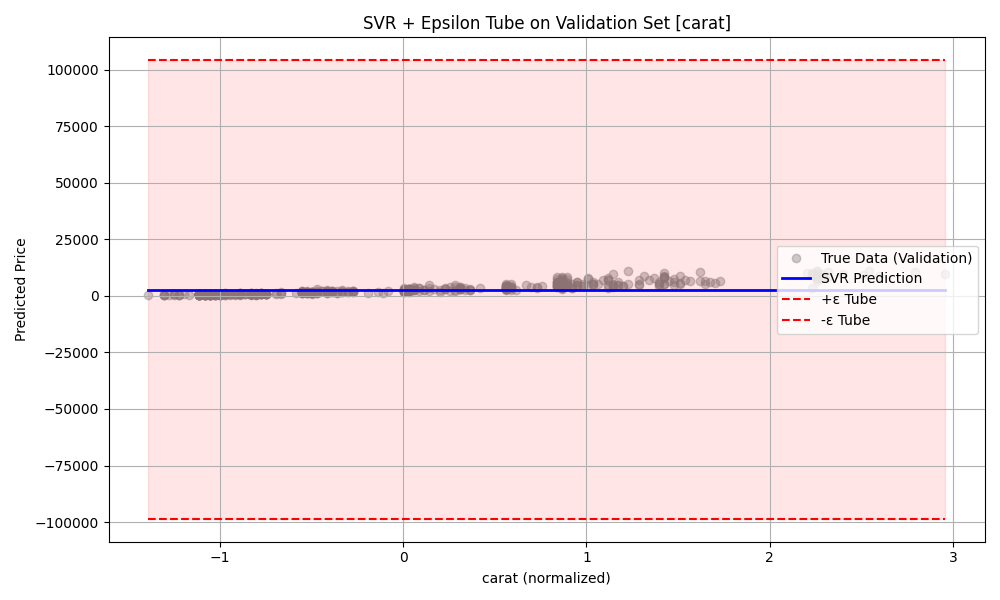
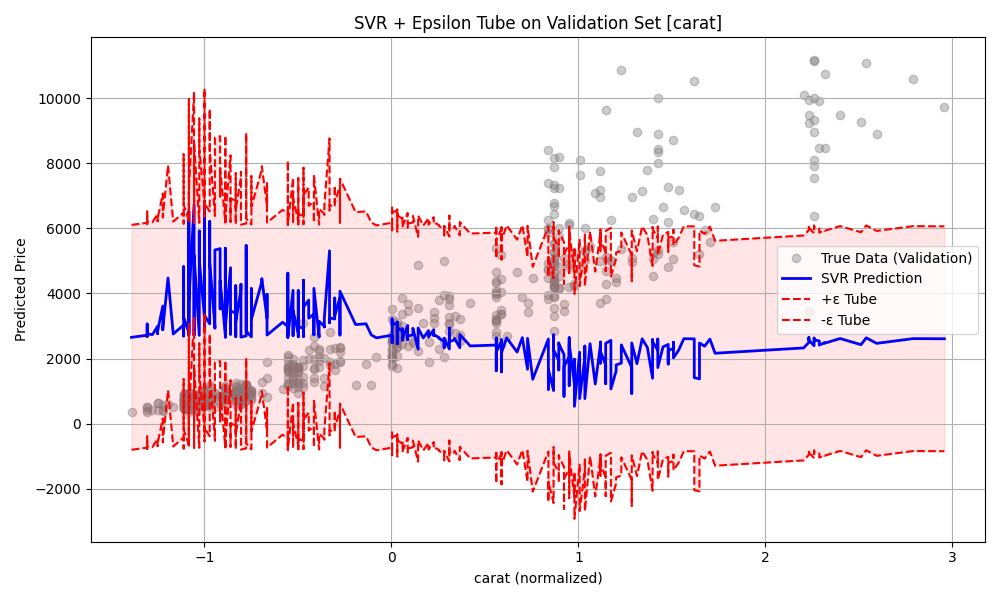
Update the svr

diff --git a/main_d.py b/main_d.py
@@ -3,11 +3,10 @@ import pandas as pd
 import matplotlib.pyplot as plt
 import matplotlib
 import os
-import time
 
 from SVM.Svr import SupportVectorRegression
 from SVM.utility.Enum import KernelType
-from SVM.utility.Search import random_search_svr
+from SVM.utility.Search import grid_search_svr
 from sklearn.metrics import r2_score
 from SVM.utility.preprocess import preprocessData, customRegressionReport, denormalize_price
 
@@ -26,19 +25,38 @@ y_train = y_train.flatten()
 y_val = y_val.flatten()
 y_test = y_test.flatten()
 
+print("y_mean:", y_mean)
+print("y_std:", y_std)
+print("Shape y_mean:", y_mean.shape)
+print("Shape y_train:", y_train.shape)
+print("First 5 normalized y_train:", y_train[:5])
+
 # ------------------------- HYPERPARAMETER SEARCH -------------------------
 param_grid_random = {
-    "kernel_type": [KernelType.RBF],
-    "C": [10, 30, 50],
-    "epsilon": [10, 20, 30, 40, 50],
-    "sigma": [0.01, 0.03, 0.05, 0.075, 0.1],
-    "degree": [3],
+    "kernel_type": [
+        KernelType.LINEAR,
+        KernelType.RBF
+    ],
+
+    # C controls regularization (applies to all kernels)
+    "C": [0.1, 1, 10, 30, 100],
+
+    # Epsilon-insensitive zone width
+    "epsilon": [0.01, 0.05, 0.1, 0.2],
+
+    # Sigma is used only for RBF
+    "sigma": [0.5, 1.0, 2.0, 5.0],
+
+    # Polynomial kernel parameters (ignored elsewhere)
+    "degree": [2],
     "coef": [0.0],
-    "learning_rate": [0.001, 0.003, 0.005],
+
+    # Optimizer parameters
+    "learning_rate": [0.001, 0.005, 0.01, 0.03, 0.05],
     "momentum": [0.7, 0.8, 0.9]
 }
-best_params, best_score = random_search_svr(X_train, y_train, X_val, y_val, param_grid_random, n_iter=10)
 
+best_params, best_score = grid_search_svr(X_train, y_train, X_val, y_val, param_grid_random)
 print(f"Best params: {best_params} with {best_score}")
 
 # ------------------------- FINAL MODEL TRAINING -------------------------
@@ -59,13 +77,19 @@ print("\n---------------- VALIDATION PHASE ----------------")
 Y_pred_val = svr_final.predict(X_val)
 y_val_denorm = denormalize_price(y_val, y_mean, y_std)
 Y_pred_val_denorm = denormalize_price(Y_pred_val, y_mean, y_std)
-customRegressionReport(y_val_denorm, Y_pred_val_denorm, name="Test")
+
+print("First 5 denormalized predictions:", Y_pred_val_denorm[:5])
+print("Denorm mean:", np.mean(Y_pred_val_denorm))
+print("Denorm std:", np.std(Y_pred_val_denorm))
 
 # ------------------------- FINAL TRAINING ON TRAIN+VAL -------------------------
 print("\n---------------- TRAINING ON TRAIN + VALIDATION ----------------")
 X_train_final = np.vstack((X_train, X_val))
 y_train_final = np.hstack((y_train, y_val))
 svr_final.fit(X_train_final, y_train_final)
+print("max(β) VAL:", np.max(np.abs(svr_final.beta)))
+print("bias b VAL:", svr_final.b)
+
 
 # ------------------------- TEST PREDICTION -------------------------
 print("\n---------------- TEST PHASE ----------------")
@@ -73,27 +97,40 @@ Y_pred_test = svr_final.predict(X_test)
 y_test_denorm = denormalize_price(y_test, y_mean, y_std)
 Y_pred_test_denorm = denormalize_price(Y_pred_test, y_mean, y_std)
 
-# ------------------------- EPSILON TUBE PLOTS -------------------------
-feature_idx = 0
-feature_name = data_sampled.columns[feature_idx]
-x_range = np.linspace(X_val[:, feature_idx].min(), X_val[:, feature_idx].max(), 300)
-X_grid = np.tile(np.mean(X_val, axis=0), (300, 1))
-X_grid[:, feature_idx] = x_range
-y_pred_grid = svr_final.predict(X_grid)
-y_pred_grid_denorm = denormalize_price(y_pred_grid, y_mean, y_std)
-epsilon_denorm = float(best_params["epsilon"] * (y_std.iloc[0] if isinstance(y_std, pd.Series) else y_std))
+# ------------------------- EPSILON TUBE PLOTS (REALISTIC CURVE) -------------------------
+print("\n---------------- PLOTTING SVR CURVE ON SIGNIFICANT FEATURE ----------------")
+
+# Select meaningful feature to visualize (e.g., "carat")
+feature_name = "carat"
+feature_idx = list(data_sampled.columns).index(feature_name)
+
+# Sort validation data by the selected feature
+sorted_idx_val = np.argsort(X_val[:, feature_idx])
+X_val_sorted = X_val[sorted_idx_val]
+y_val_sorted = y_val_denorm[sorted_idx_val]
+Y_pred_val_sorted = Y_pred_val_denorm[sorted_idx_val]
+
+# Sort test data by the selected feature
+sorted_idx_test = np.argsort(X_test[:, feature_idx])
+X_test_sorted = X_test[sorted_idx_test]
+y_test_sorted = y_test_denorm[sorted_idx_test]
+Y_pred_test_sorted = svr_final.predict(X_test_sorted)
+Y_pred_test_denorm_sorted = denormalize_price(Y_pred_test_sorted, y_mean, y_std)
+
+# Get denormalized epsilon from final model
+epsilon_denorm = denormalize_price(np.array([svr_final.epsilon]), y_mean, y_std)[0]
 
 os.makedirs("plots", exist_ok=True)
 
-# Validation set epsilon tube plot
+# Plot: Validation set
 plt.figure(figsize=(10, 6))
-plt.scatter(X_val[:, feature_idx], y_val_denorm, alpha=0.4, color="gray", label="True Data (Validation)")
-plt.plot(x_range, y_pred_grid_denorm, color='blue', linewidth=2, label="SVR Prediction")
-plt.plot(x_range, y_pred_grid_denorm + epsilon_denorm, 'r--', label="+ε Tube")
-plt.plot(x_range, y_pred_grid_denorm - epsilon_denorm, 'r--', label="-ε Tube")
-plt.fill_between(x_range,
-                 y_pred_grid_denorm - epsilon_denorm,
-                 y_pred_grid_denorm + epsilon_denorm,
+plt.scatter(X_val_sorted[:, feature_idx], y_val_sorted, alpha=0.4, color="gray", label="True Data (Validation)")
+plt.plot(X_val_sorted[:, feature_idx], Y_pred_val_sorted, color='blue', linewidth=2, label="SVR Prediction")
+plt.plot(X_val_sorted[:, feature_idx], Y_pred_val_sorted + epsilon_denorm, 'r--', label="+\u03b5 Tube")
+plt.plot(X_val_sorted[:, feature_idx], Y_pred_val_sorted - epsilon_denorm, 'r--', label="-\u03b5 Tube")
+plt.fill_between(X_val_sorted[:, feature_idx],
+                 Y_pred_val_sorted - epsilon_denorm,
+                 Y_pred_val_sorted + epsilon_denorm,
                  color='red', alpha=0.1)
 plt.xlabel(f"{feature_name} (normalized)")
 plt.ylabel("Predicted Price")
@@ -104,15 +141,15 @@ plt.tight_layout()
 plt.savefig("plots/svr_epsilon_tube_validation.png")
 plt.show()
 
-# Test set epsilon tube plot
+# Plot: Test set
 plt.figure(figsize=(10, 6))
-plt.scatter(X_test[:, feature_idx], y_test_denorm, alpha=0.4, color="orange", label="True Data (Test)")
-plt.plot(x_range, y_pred_grid_denorm, color='blue', linewidth=2, label="SVR Prediction")
-plt.plot(x_range, y_pred_grid_denorm + epsilon_denorm, 'r--', label="+ε Tube")
-plt.plot(x_range, y_pred_grid_denorm - epsilon_denorm, 'r--', label="-ε Tube")
-plt.fill_between(x_range,
-                 y_pred_grid_denorm - epsilon_denorm,
-                 y_pred_grid_denorm + epsilon_denorm,
+plt.scatter(X_test_sorted[:, feature_idx], y_test_sorted, alpha=0.4, color="orange", label="True Data (Test)")
+plt.plot(X_test_sorted[:, feature_idx], Y_pred_test_denorm_sorted, color='blue', linewidth=2, label="SVR Prediction")
+plt.plot(X_test_sorted[:, feature_idx], Y_pred_test_denorm_sorted + epsilon_denorm, 'r--', label="+\u03b5 Tube")
+plt.plot(X_test_sorted[:, feature_idx], Y_pred_test_denorm_sorted - epsilon_denorm, 'r--', label="-\u03b5 Tube")
+plt.fill_between(X_test_sorted[:, feature_idx],
+                 Y_pred_test_denorm_sorted - epsilon_denorm,
+                 Y_pred_test_denorm_sorted + epsilon_denorm,
                  color='red', alpha=0.1)
 plt.xlabel(f"{feature_name} (normalized)")
 plt.ylabel("Predicted Price")

diff --git a/SVM/Svr.py b/SVM/Svr.py
@@ -4,8 +4,8 @@ from SVM.utility.Kernels import compute_kernel
 
 
 class SupportVectorRegression:
-    def __init__(self, C=1.0, epsilon=0.1, kernel_type=KernelType.RBF, sigma=1.0,
-                 degree=3, coef=1.0, learning_rate=0.01, momentum=0.9, tol=1e-5):
+    def __init__(self, C=1.0, epsilon=10, kernel_type=KernelType.RBF, sigma=1.0,
+                 degree=3, coef=1.0, learning_rate=0.01, momentum=0.7, tol=1e-5):
         """
                 Initialize the Support Vector Regression model parameters.
 
@@ -36,21 +36,13 @@ class SupportVectorRegression:
 
     def fit(self, X, Y, max_iter=1000):
         """
-                Train the SVR model using Nesterov's smoothed gradient method.
-
-                Parameters:
-                - X: Training input data (numpy array)
-                - Y: Target values (numpy array)
-                - max_iter: Maximum number of optimization iterations
-
-                Returns:
-                - training_loss: List of dual objective values (Q_mu) at each iteration
-                """
+        Train the SVR model using Nesterov's smoothed gradient method.
+        """
         self.X_train = X
         n_samples = X.shape[0]
         self.b = 0.0
 
-        # Compute kernel matrix based on current kernel type
+        # Compute kernel matrix
         K = compute_kernel(
             X, X,
             kernel_type=self.kernel_type,
@@ -59,58 +51,62 @@ class SupportVectorRegression:
             coef=self.coef
         )
 
-        # Spectral norm (Lipschitz constant of the quadratic term)
+        # Spectral norm (Lipschitz constant)
         spectral_norm_K = np.linalg.norm(K, ord=2)
 
-        # Compute smoothing parameter μ = ε / (N*C² + ||K||)
+        # Compute smoothing parameter
         self.mu = self.epsilon / (n_samples * (self.C ** 2) + spectral_norm_K)
 
-        # Initialize β and velocity
-        self.beta = np.zeros(n_samples)
+        # Initialize variables
+        self.beta = np.random.uniform(-1e-3, 1e-3, size=n_samples)
+        beta_prev = np.zeros_like(self.beta)
         velocity = np.zeros_like(self.beta)
 
         training_loss = []
 
         for iteration in range(max_iter):
-            prev_beta = np.copy(self.beta)
-
             # Nesterov extrapolation
-            y_t = self.beta + self.momentum * (self.beta - prev_beta)
+            y_t = self.beta + self.momentum * (self.beta - beta_prev)
 
-            # Gradient
+            # Save current beta for next iteration
+            beta_prev = self.beta.copy()
+
+            # Compute gradient at extrapolated point
             grad = self.compute_smooth_gradient(K, Y, y_t)
 
             # Update with momentum
             velocity = self.momentum * velocity - self.learning_rate * grad
             self.beta = y_t + velocity
 
-            # Project β to box constraints
+            # Project β to box constraints [-C, C]
             self.beta = np.clip(self.beta, -self.C, self.C)
 
-            # Enforce ∑β = 0 by adjusting one variable (more robust than subtracting mean blindly)
+            # Enforce ∑β = 0
             beta_sum = np.sum(self.beta)
             if abs(beta_sum) > 1e-8:
-                idx = np.argmax(np.abs(self.beta))  # pick max component
-                self.beta[idx] -= beta_sum  # correct it
+                idx = np.argmax(np.abs(self.beta))
+                self.beta[idx] -= beta_sum
 
-            # Compute bias b using support vectors
+            # Compute bias b from support vectors
             support_indices = np.where((np.abs(self.beta) > 1e-6) & (np.abs(self.beta) < self.C))[0]
             if len(support_indices) > 0:
                 self.b = np.mean(Y[support_indices] - np.dot(K[support_indices], self.beta))
             else:
                 self.b = np.mean(Y - np.dot(K, self.beta))
 
-            # Smoothed dual objective
+            # Compute dual objective
             Q_mu = np.sum(Y * self.beta) - self.epsilon * np.sum(
                 self.smooth_abs(self.beta)) - 0.5 * self.beta @ K @ self.beta
             training_loss.append(Q_mu)
 
-            if np.linalg.norm(self.beta - prev_beta) < self.tol:
+            # Convergence check
+            if np.linalg.norm(self.beta - beta_prev) < self.tol:
                 print(f"Converged at iteration {iteration}")
                 break
 
             if iteration % 10 == 0:
-                print(f"Iteration {iteration}, Q_mu: {Q_mu:.6f}")
+                print(f"Iter {iteration} | max(β): {np.max(np.abs(self.beta)):.6f} | ∥grad∥: {np.linalg.norm(grad):.6f}"
+                      f"| Q_mu: {Q_mu:.6f}")
 
         return training_loss
 
@@ -135,7 +131,6 @@ class SupportVectorRegression:
         )
 
         predictions = K_test @ self.beta + self.b
-        predictions = np.clip(predictions, -3.0, 3.0)
 
         return predictions
 
